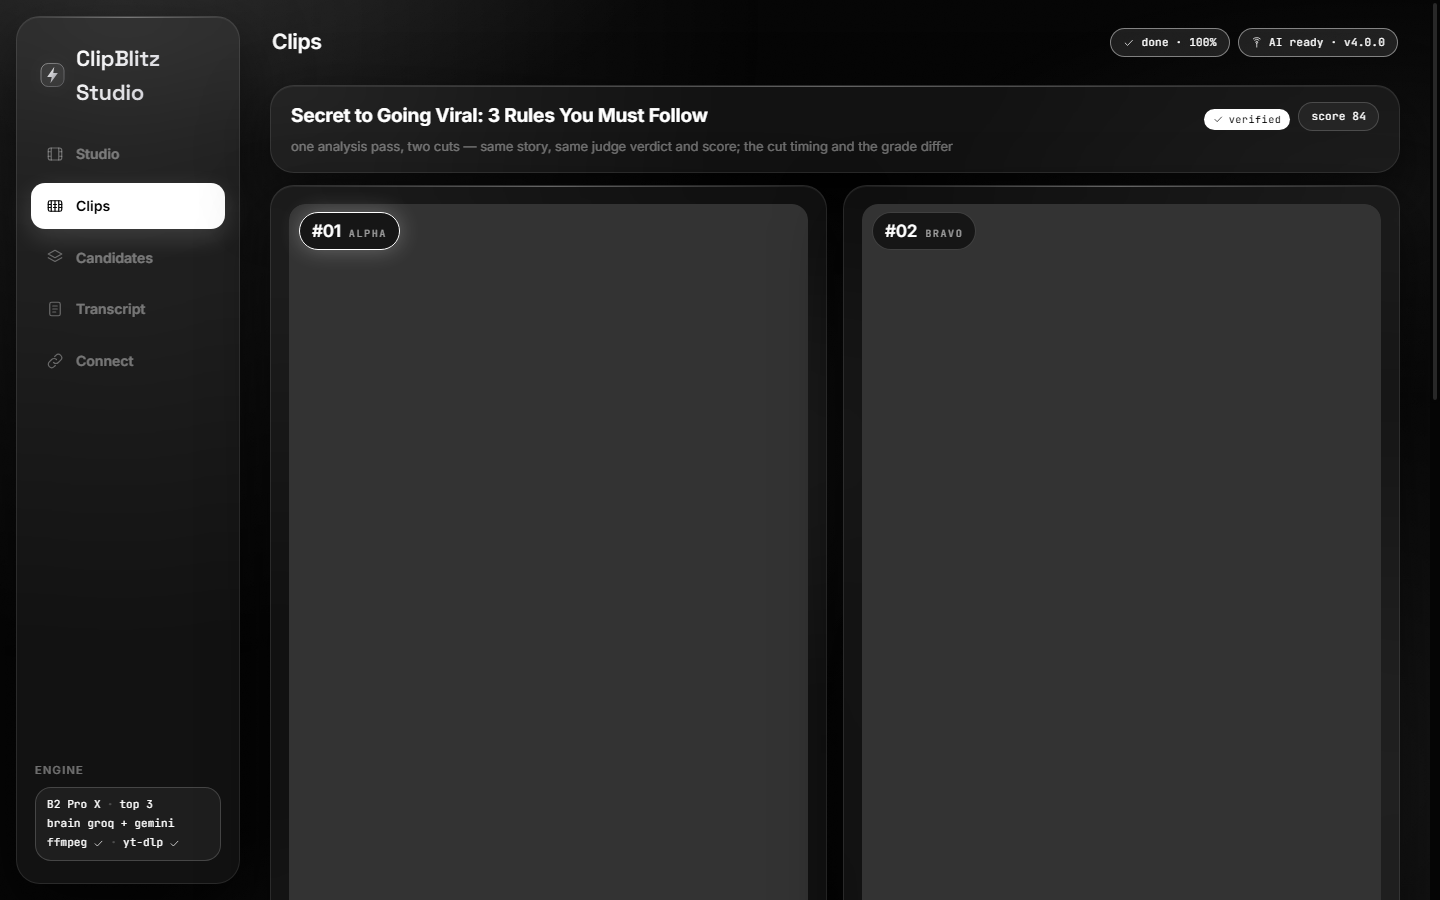
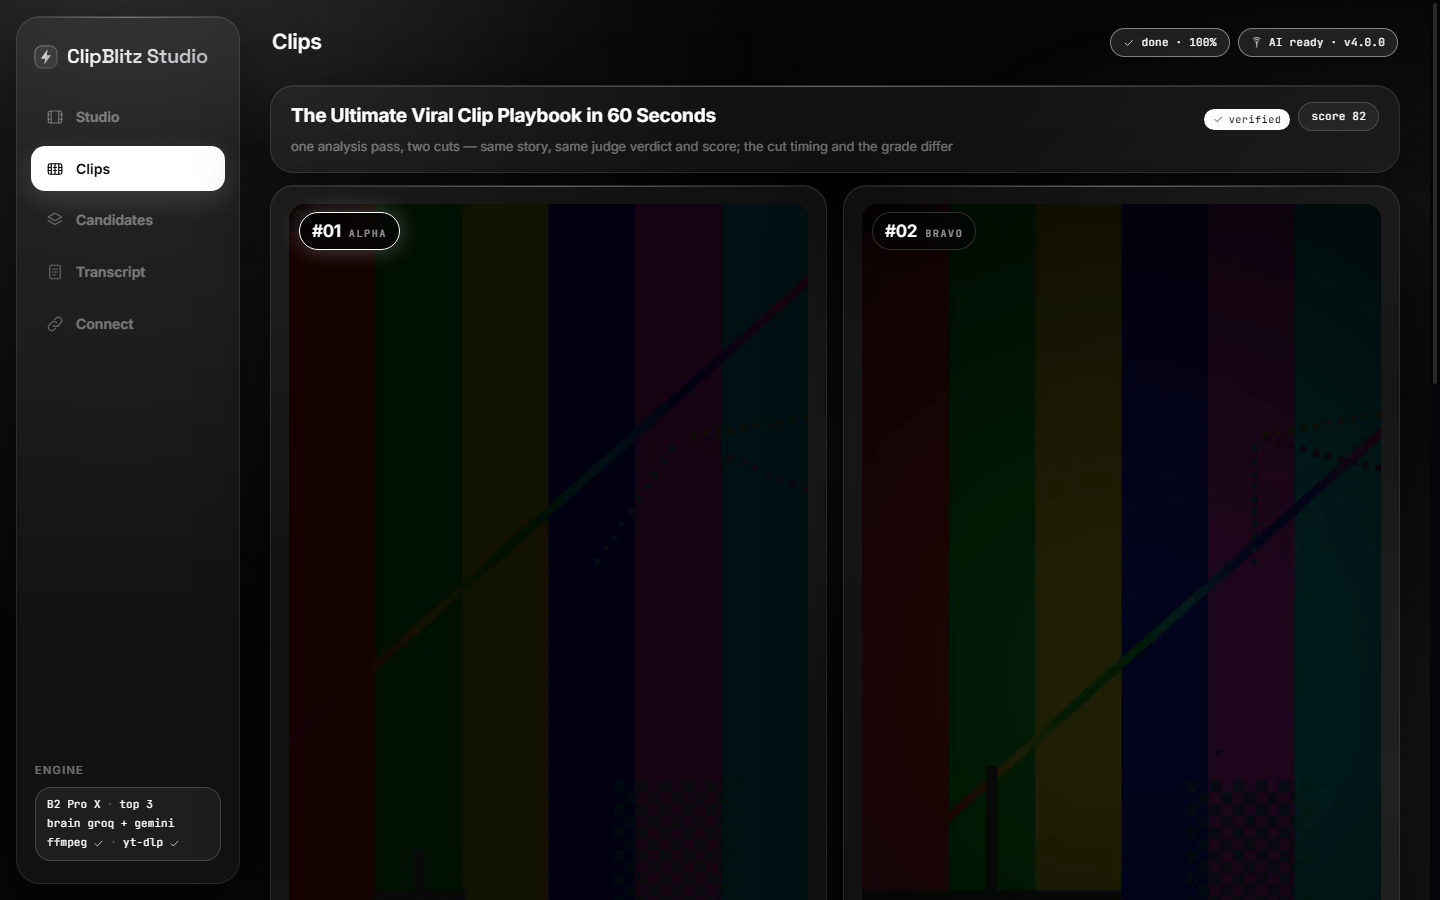
docs(shots): refresh every screenshot and show the lab and transcript screens
The shots predated the rights gate, the learning card and the brand pass, and
the mobile pair was captured by a method that laid the page out wider than the
handset and cropped it, so those images showed clipped text. Recapture all of
them at true viewport sizes through a fixed-size frame, add the two screens
that had no shot at all, and link them from the studio README.

🤖 Generated with Codebuff

diff --git a/studio/README.md b/studio/README.md
@@ -100,6 +100,12 @@ SETUP.md          fresh PC, phone, Termux, YouTube OAuth
 Ports on this machine: Studio **4300**, classic ClipBlitz 4301, B2 Pro X 4302 (they can run
 side by side; each is self-contained).
 
+## The other two screens
+
+![Candidate lab — every runner-up, measured and judged](docs/shots/07-lab.png)
+
+![Transcript timeline — waveform, markers, and the window you cut](docs/shots/08-transcript.png)
+
 ## Verify it yourself
 
 Health, capability and LAN endpoints (the server is stdlib `ThreadingHTTPServer`):
